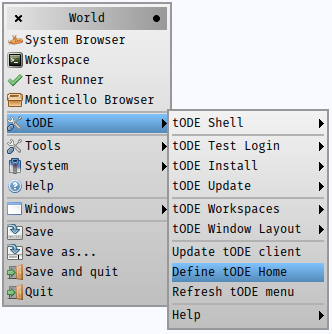
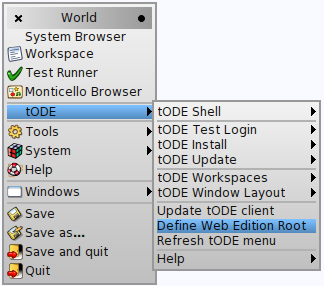
revise docs to match recent tODE mods:
- alternate layout support
- rename `Define tODE Home` menu item to `Define Web Edition Root`
- move dev/tode/image to dev/tode/client/image
- move server/scripts to dev/tode/server/scripts

diff --git a/docs/install/gettingStartedWithTode.md b/docs/install/gettingStartedWithTode.md
@@ -15,7 +15,8 @@
 ## Install and Start GemStone
 
 Before getting started with tODE, you need to [install GemStone][1] and 
-[start the stone and netldi processes][2]. 
+[start the stone and netldi processes][2]. Once you've got your netldi started
+return to this document.
 
 ## Download tODE Client
 Once GemStone is up and running, you will need a tODE client. 
@@ -39,8 +40,17 @@ figured out, but until then:
   * `CTL-C` and `CTL-B` are not mapped correctly so `ALT-C` and `ALT-B` must be
     used instead. There may be others.
 
-With regards to Windows clients, I have not done any testing, so we will learn
-together. 
+With regards to Windows clients, at the moment it appears that the with respect to
+the modifier keys, Windows is similar to Linux in that Pharo1.4 is probably the best
+fit. Unfortunately, the FileTree implementation for `github:` repositories is
+broken for Windows in Pharo1.4. I believe that the FileTree implementation for 
+Windows in Pharo3.0 is functional, but I'm afraid that the keymapping issues aren't
+yet solved and I haven't built a one-click for Pharo3.0 (it appears that there is no 
+on-click available for Pharo3.0 so there's even more work that needs to be done to
+produce a tODE image based on Pharo3.0...). It **is** possible to use a Pharo1.4
+tODE with Windows, but updating the client software is problematic. At the end of 
+the day, I would say that if you need to use a Windows client, you should wait for a 
+bit until I solve the Pharo3.0 issues.
 
 ### Download tODE Client
 The current version of the one-click tODE client is `0.0.1`. 
@@ -59,25 +69,40 @@ The tODE System Menu:
 
 ![tODE System Menu][8]
 
-is your entrypoint for setting up and controlling tODE. 
+is your entry point for setting up and controlling tODE. 
 
 Before using tODE for the 
 first time you will need to perform the following operations:
 
-1. [Define tODE Home](#define-tode-home)
+1. [Define WebEdition Root](#define-webedition-root)
 2. [Update tODE Client](#update-tode-client)
 3. [Choose tODE Window Layout](#choose-tode-window-layout)
 4. [Define tODE Session Description](#define-tode-session-description)
 5. [Test tODE Login](#test-tode-login)
 6. [Install tODE on Server](#install-tode-on-server)
 
-### Define tODE home
-Using the `Define tODE Home` menu item on the System Menu to define the root
-directory of your Web Edition checkout (i.e., `/opt/git/webEditionHome`):
+### Define WebEdition Root
+Use the `Define WebEdition Root` menu item on the System Menu to define the root
+directory of your Web Edition checkout (i.e., `/opt/git/webEditionHome`).
+
+Most of the tODE menu items are derived from the contents of the directories
+located in `$WE_HOME/dev/tode/client`, so it is important that you have:
+
+1. Cloned [Web Edition Home][20] to your client machine.
+2. Cloned [Web Edition Home][20] to your server machine, if
+   you are running your server on a remote machine.
+3. Defined the WebEdition root for your client using the  `Define WebEdition Root`
+   or by executing the following expression in a workspace on the client:
+  ```Smalltalk
+  TDShell webEditionRoot: '/opt/git/webEditionHome'.
+  ```
 ### Update tODE Client
+It is always a good idea to update the client software after downloading a new one-click
+image, because the one-click images are not updated nearly as frequently as the tODE
+code base changes.
+
 The `Update tODE Client` menu item updates the client-side tODE code using the
-sript defined in `$WE_HOME/dev/tode/client/scripts/updateClient. By default the
-following script is used:
+sript defined in `$WE_HOME/dev/tode/client/scripts/updateClient`:
 
 ```
 updateClient --clientRepo=github://dalehenrich/tode:master/repository
@@ -87,11 +112,21 @@ As you gain more experience with tODE you may want to customize the script so th
 you can use your own client-side tODE repository.
 
 ### Choose tODE Window Layout
-This is the default window layout for tODE based on the `mac_PharoDefault` layout:
+At this point in time, you should change your system font from *Bitmap Deja Vu Sans* 
+to a mono-spaced font. Many of the tODE windows display textual information that is
+layed out assuming mono-spaced fonts. Compare the **Projects** windows in the two
+layouts below; the first layout is using *Bitmap Deja Vu Sans*
+and the second layout is using *Menlo Regular 9*; notice how the columns are mis-aligned
+in the first layout.
+The Mac, Linux and Windows platforms each have a variety of pleasant
+mono-spaced fonts from which to choose. Over time, I've found that my font preference
+changes as I use different window layouts and different sizes of displays.
+
+Here is the default window layout for tODE based on the `standard-small` layout:
 
 ![default window layout][10]
 
-Here is an alternate layout:
+Here is an example of the `alternate-large` layout:
 
 ![alternate window layout][19]
 
@@ -99,6 +134,44 @@ Using the `tODE Window Layout` menu item you can choose a different layout to be
 fit on your display:
 
 ![tODE windowLayout menu][12]
+
+The `small` layouts are designed for small displays
+and/or large fonts and provide for using the minimum number of windows. 
+The `large` layouts are designed for large displays and/or
+small fonts and provide additional areas for windows.
+
+It is possible to create a custom layout using the `tODE Workspaces > windowsLayout.ws`
+menu item:
+
+![tode workspaces windowlayout.ws menu][21]
+
+The workspace allows you change the proportions of the different layout components
+and the number of extra lists that you'd like to make room for:
+
+```Smalltalk
+"choose TDStandardWindowProperties or 
+ TDAlernativeWindowProperties class for different layouts.
+ Adjust parameters to change  proportions or configuration of 
+ layout. "
+| layoutName sessionDescriptionName propertiesClass |
+"TDShell webEditionRoot:'/opt/git/webEditionHome/'"
+layoutName := 'custom'.
+sessionDescriptionName := 'seaside'.
+propertiesClass := TDStandardWindowProperties.
+(propertiesClass new
+  margin: 3 @ 3;		"inset from edges of display"
+  codeWidthFactor: 0.45;	"% of width devoted to code window"
+  extraLists:2 ;		"number of extra lists"
+  shellHeightFactor: 0.33;	"% of height devoted to shell window"
+  topHeightFactor: 0.25;	"% of height devoted to top windows"
+  yourself) 
+    exportTo: TDShell windowLayoutHome, layoutName.
+TDAbstractWindowProperties install: layoutName.
+TDShell testWindowLayout: sessionDescriptionName.
+```
+
+You can also subclass **TDAbstractWindowProperties** and define a completely different
+window layout for tODE, if you so desire.
 
 ### Define tODE Session Description
 
@@ -130,13 +203,17 @@ represent directories on your server machine.
 is listening on, run the [gslist command][18].
 
 If you need to change some of the settings, you can edit the file directly, or using
-the client-side workspace in `$WE_HOME/dev/tode/image/sessionSetup.ws`:
+the client-side workspace in `$WE_HOME/dev/tode/image/sessionSetup.ws`
+to adjust the fields to match your installation:
 
 ```Smalltalk
+| webEditionRoot sessionName |
+webEditionRoot := '/opt/git/webEditionHome/'.
+sessionName := 'seaside'.
+TDShell webEditionRoot: webEditionRoot.
 (TDSessionDescription new
-    name: 'seaside';
+    name: sessionName;
     gemstoneVersion: '3.2.0';
-    adornmentColor: Color lightGreen;
     stoneHost: 'localhost';
     stoneName: 'seaside';
     gemHost: 'localhost';
@@ -149,12 +226,10 @@ the client-side workspace in `$WE_HOME/dev/tode/image/sessionSetup.ws`:
     backupDirectory: '';
     dataDirectory: '';
     serverGitRoot: '/opt/git';
-    serverTodeRoot: '/opt/git/todeHome/dev/tode';
+    serverTodeRoot: webEditionRoot, '/dev/tode`;
     yourself) exportTo: TDShell sessionDescriptionHome.
-TDShell testLogin: 'seaside'.
+TDShell testLogin: sessionName.
 ```
-
-to adjust the fields to match your installation. 
 
 The above workspace will write your changes into the directory 
 `$WE_HOME/dev/tode/client/descriptions`, using the name field of the session description
@@ -246,3 +321,5 @@ to open the tODE shell window:
 [17]: ../images/todeShell.png
 [18]: https://github.com/glassdb/webEditionHome/blob/master/docs/install/gettingStartedWithWebEdition.md#gemstone-status
 [19]: ../images/alternateWindowLayout.png
+[20]: https://github.com/glassdb/webEditionHome
+[21]: ../images/todeWindowsLayoutWorkspaceMenuItem.png
